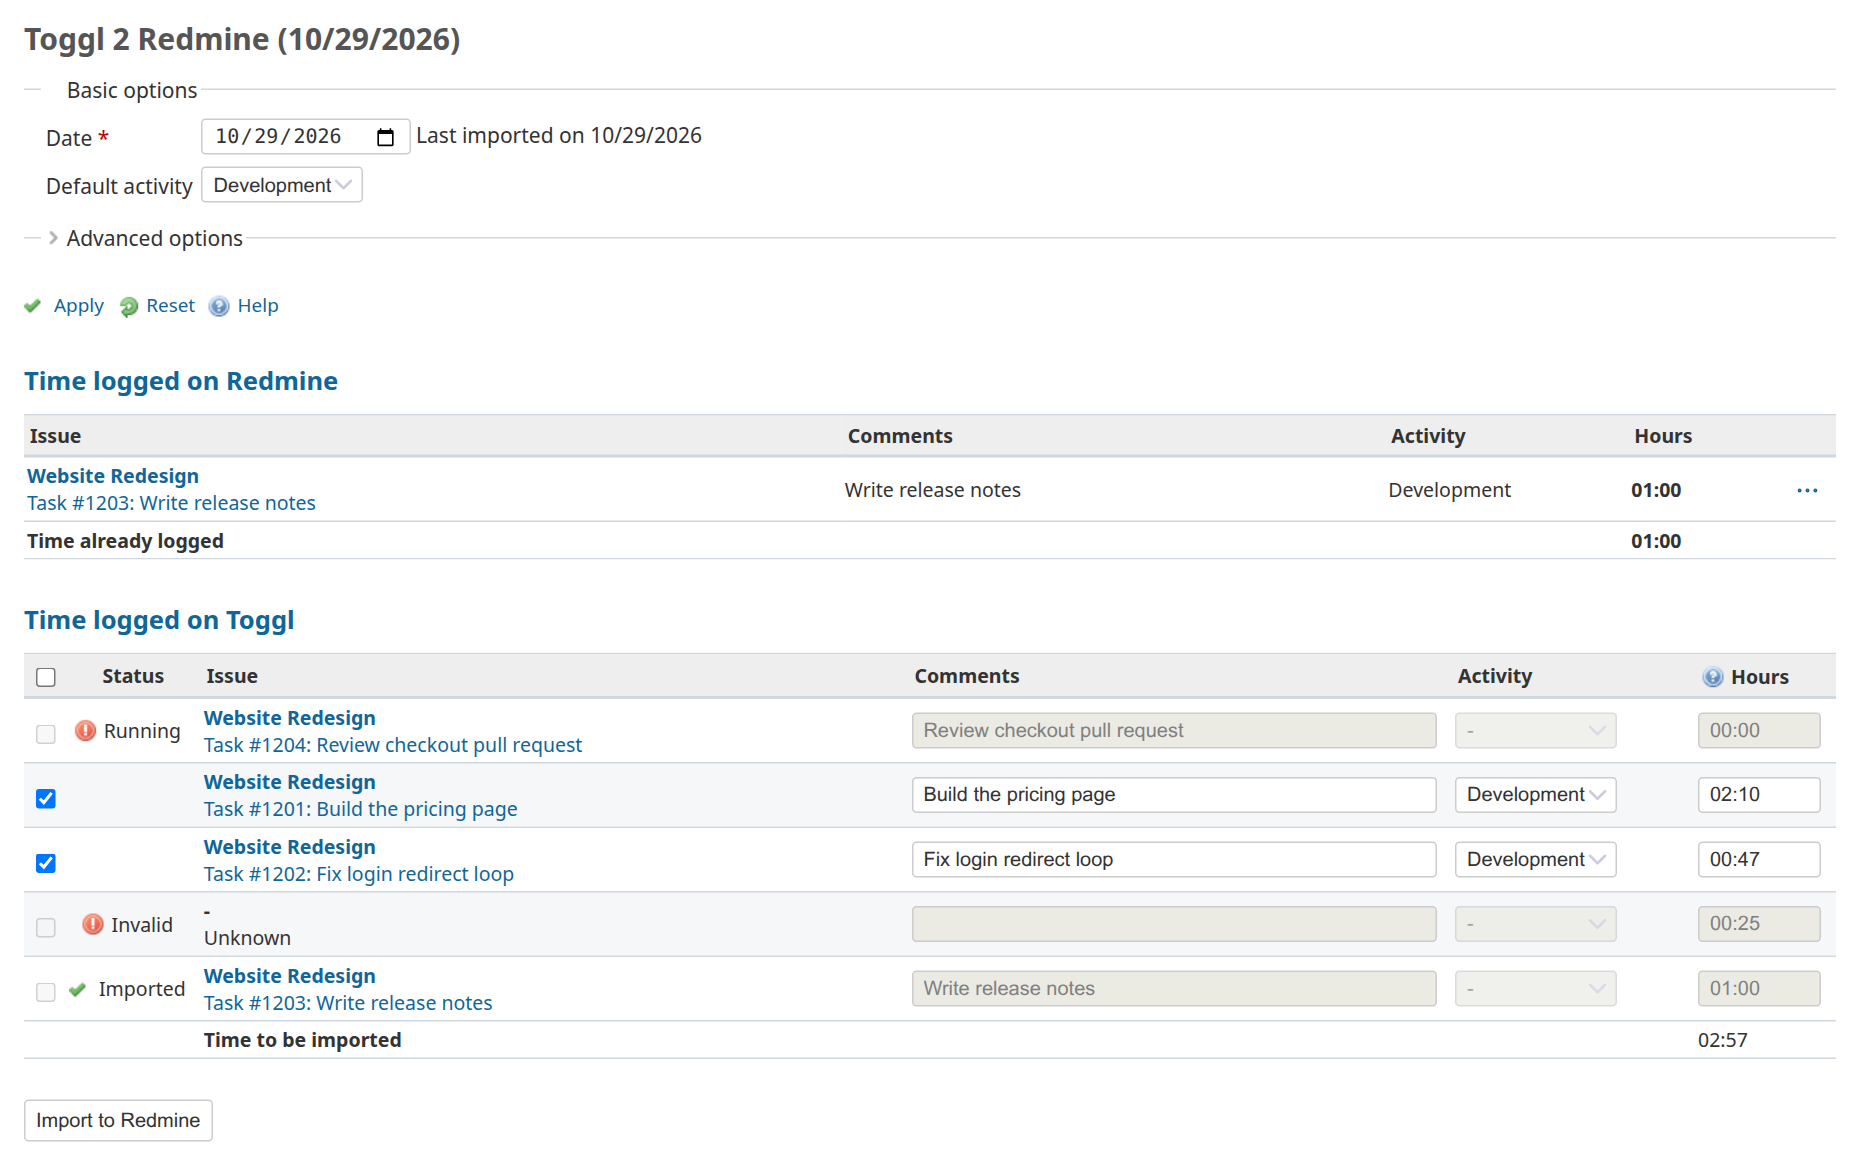
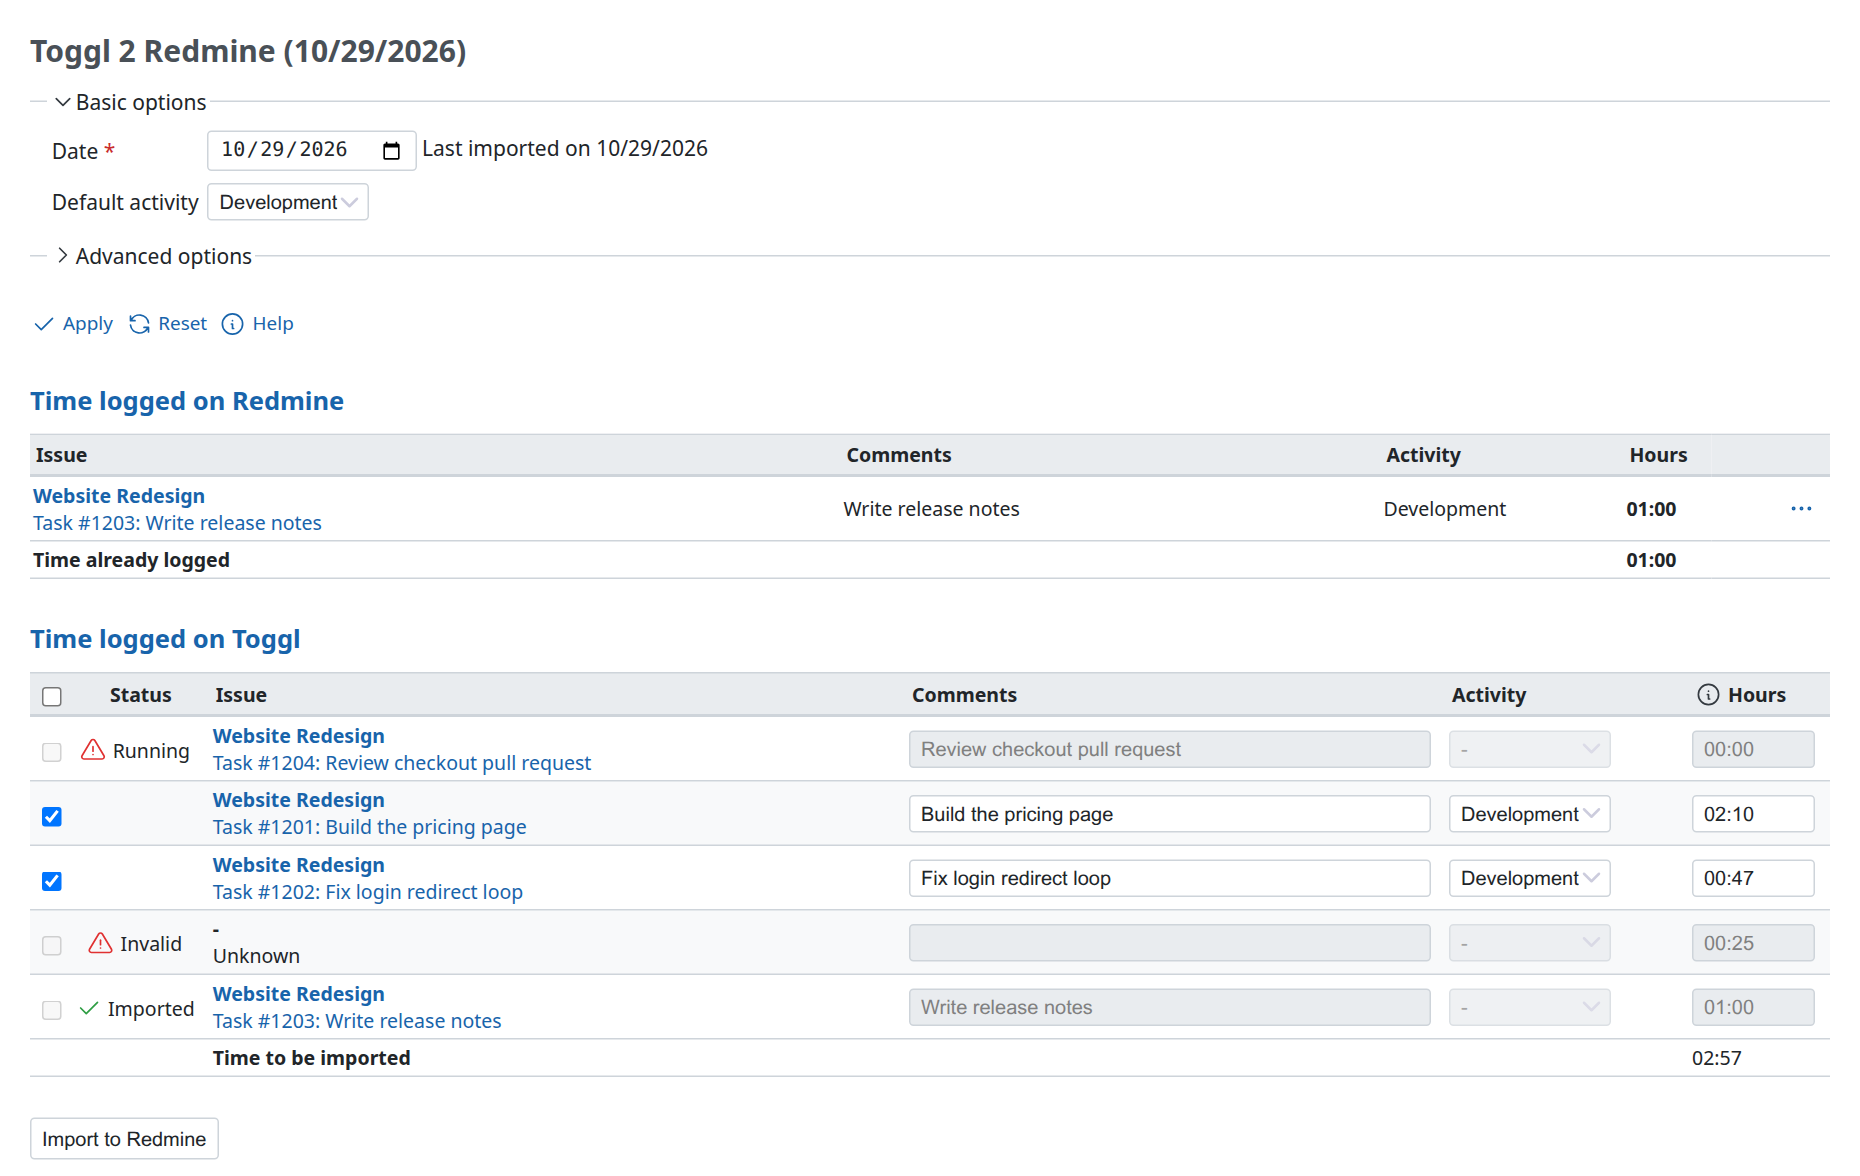
Update README for Redmine 7

diff --git a/README.md b/README.md
@@ -1,6 +1,6 @@
 # Toggl 2 Redmine
 
-![Redmine Version](https://img.shields.io/badge/Redmine-6.x-green.svg)
+![Redmine Version](https://img.shields.io/badge/Redmine-7.x-green.svg)
 
 A Redmine plugin that imports your time entries from Toggl into Redmine. It
 works with Toggl Track and with Toggl 2.0.
@@ -12,13 +12,14 @@ during the day and still end up with one clean entry per task in Redmine.
 ![The import page](docs/images/import.png)
 
 This is a maintained fork of [jigarius/toggl2redmine](https://github.com/jigarius/toggl2redmine),
-updated for Redmine 6, the Toggl Track API v9 and Toggl 2.0.
+updated for Redmine 6 and 7, the Toggl Track API v9 and Toggl 2.0.
 
 ## Compatibility
 
 | Plugin  | Redmine | Toggl                              |
 |---------|---------|------------------------------------|
-| 6.x     | 6.0+    | Toggl Track (API v9) and Toggl 2.0 |
+| 7.x     | 7.0+    | Toggl Track (API v9) and Toggl 2.0 |
+| 6.x     | 6.0     | Toggl Track (API v9) and Toggl 2.0 |
 | 5.x     | 5.x     | Toggl Track (API v8, retired)      |
 
 Toggl has shut down the v8 API, so versions before 6.1.0 can no longer load
@@ -28,10 +29,11 @@ time entries from Toggl.
 
 * Clone the plugin into the `plugins` directory of Redmine. The directory
   must be named `toggl2redmine`. Pick the latest tag from the
-  [releases page](https://github.com/burak-ikiler/toggl2redmine/releases).
+  [releases page](https://github.com/burak-ikiler/toggl2redmine/releases):
+  a 7.x tag for Redmine 7, a 6.x tag for Redmine 6.
   ```bash
   cd /path/to/redmine/plugins
-  git clone --branch 6.2.0 https://github.com/burak-ikiler/toggl2redmine.git toggl2redmine
+  git clone --branch 7.0.0 https://github.com/burak-ikiler/toggl2redmine.git toggl2redmine
   ```
 * Run the plugin migrations and restart Redmine.
   ```bash
@@ -47,7 +49,7 @@ To upgrade, check out the new tag, run the migrations again and restart Redmine.
 ```bash
 cd /path/to/redmine/plugins/toggl2redmine
 git fetch --tags
-git checkout 6.2.0
+git checkout 7.0.0
 ```
 
 ## Setup
@@ -150,11 +152,11 @@ Click _Apply_ after changing an option.
 
 ## Development
 
-The repository comes with a Docker setup: Redmine 6 on MariaDB, a Node
+The repository comes with a Docker setup: Redmine 7 on MariaDB, a Node
 container for the JavaScript, and Mailhog.
 
 ```bash
-git clone --branch 6.x https://github.com/burak-ikiler/toggl2redmine.git
+git clone --branch 7.x https://github.com/burak-ikiler/toggl2redmine.git
 cd toggl2redmine
 docker compose up -d --build
 ```
